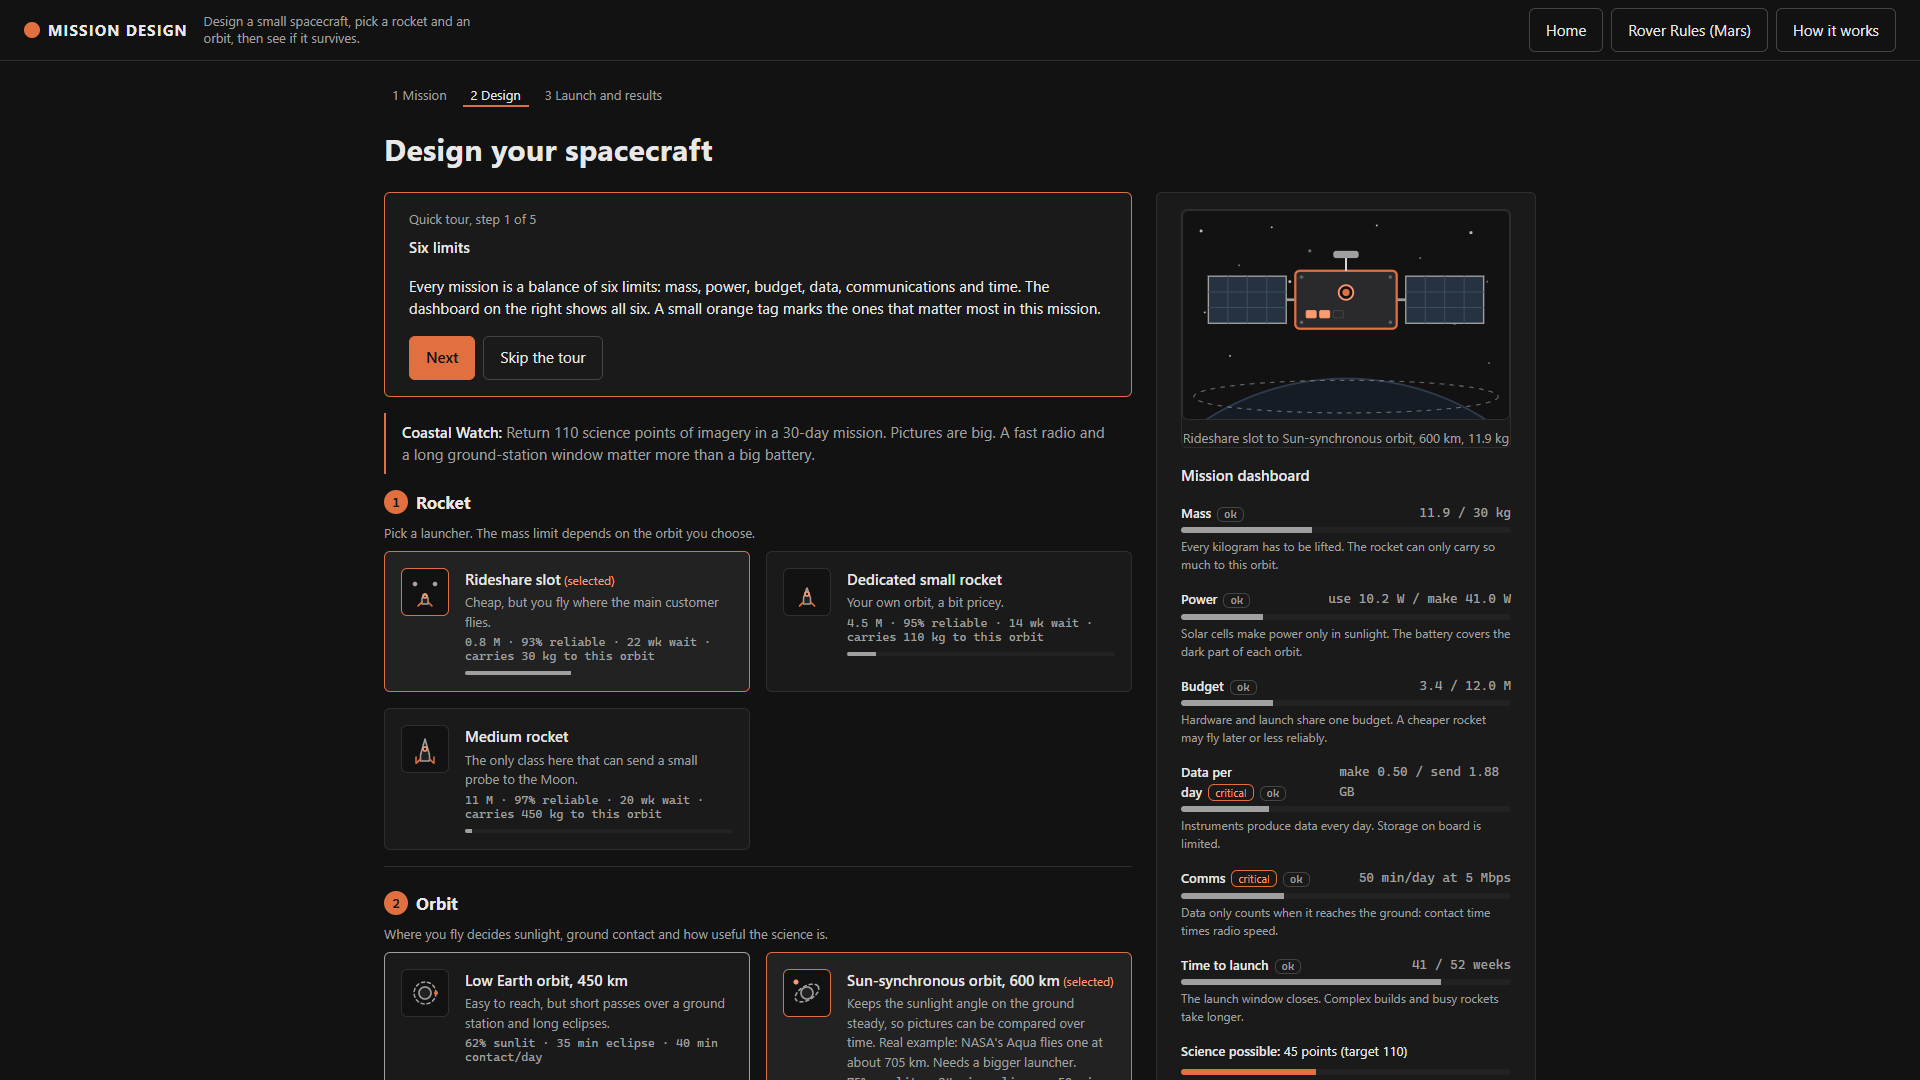
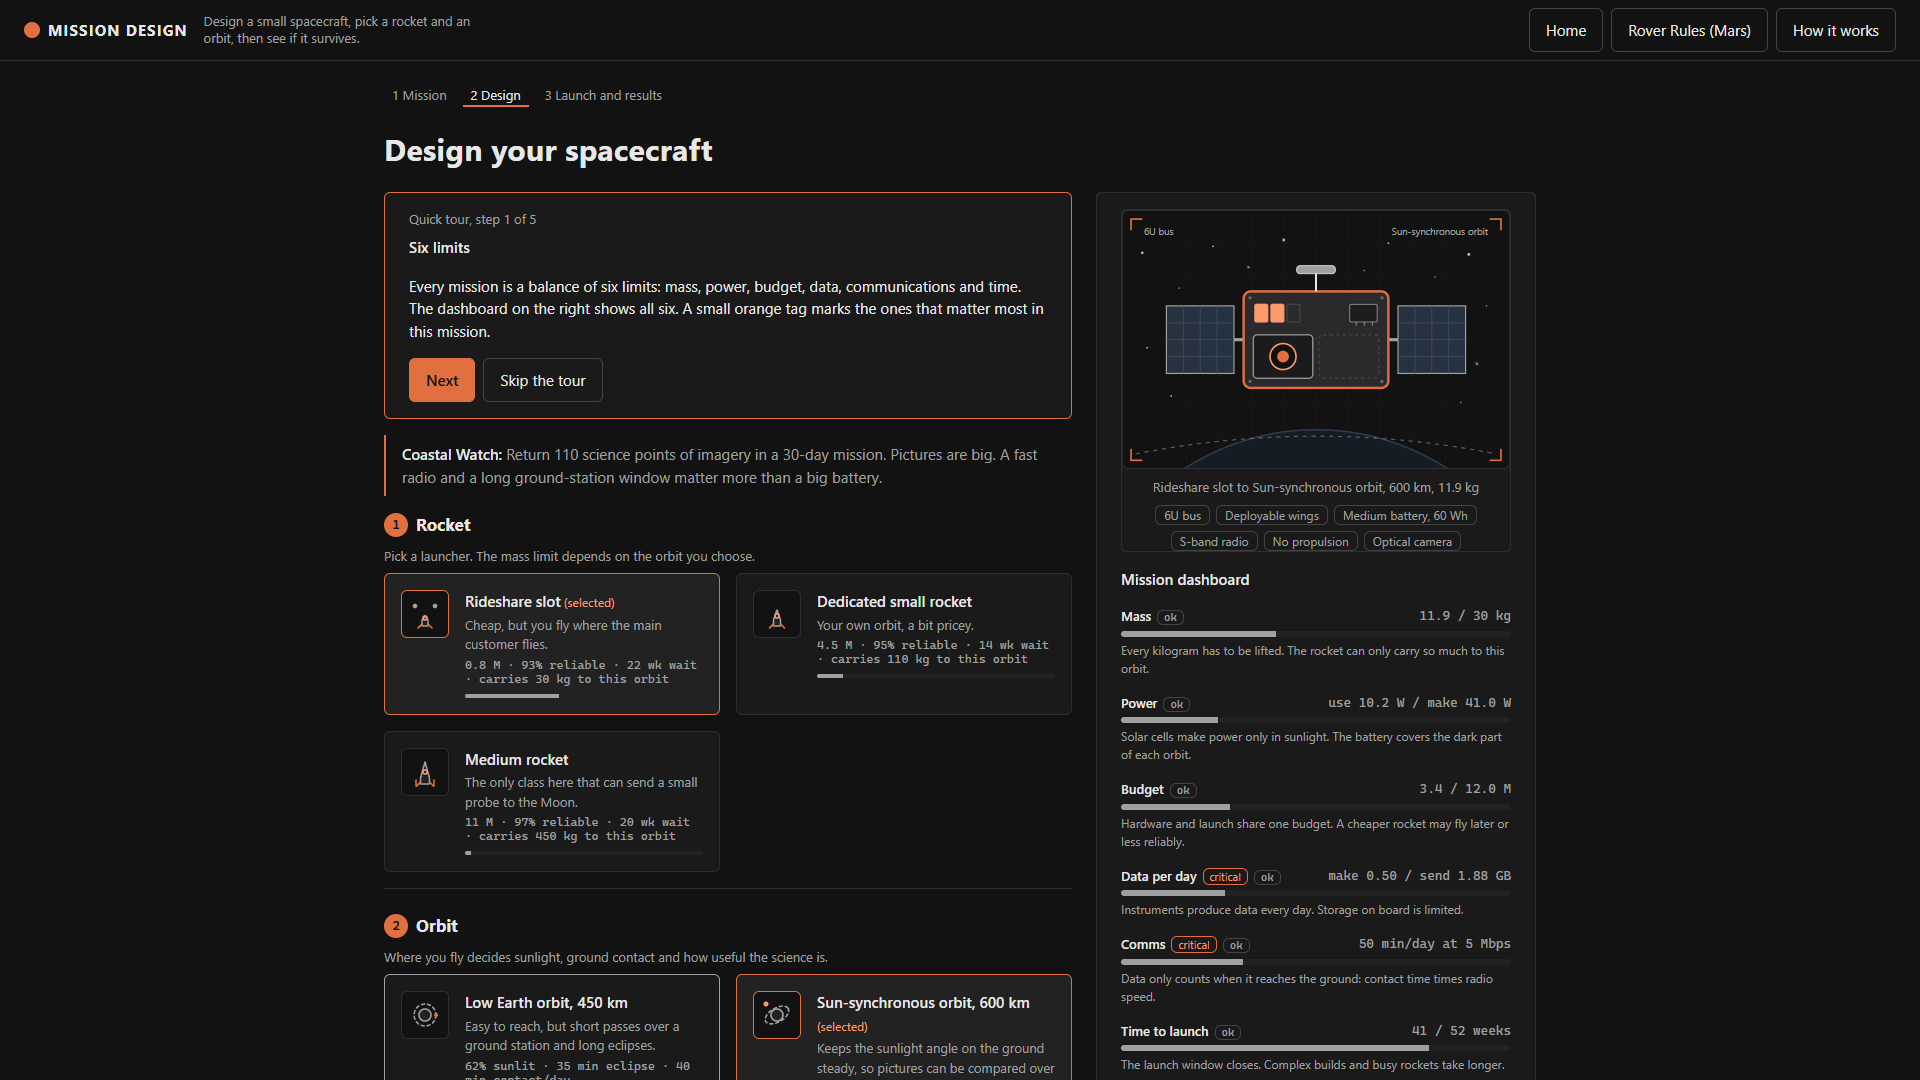
Spacecraft scene rebuilt: hull with battery row, payload bay sockets with clipped instruments, fixed mounts for wings, antenna and thruster; part pop animation; legend

Changed region(s): [[0.1875, 0.2444, 0.7812, 1.0], [0.5938, 0.2139, 0.625, 0.2444]]

diff --git a/rover/src/md_art.js b/rover/src/md_art.js
@@ -4,54 +4,91 @@
   const MR = (globalThis.MR = globalThis.MR || {}), MD = MR.MD;
   const ACC = "#e0703f", ACC2 = "#ff9a6e", INK = "#e8e8e8", DIM = "#a0a0a0", LINE = "#444", PANEL = "#26323f", CELL = "#3d5066", HULL = "#2a2a2c";
 
-  // ---------- spacecraft scene (360 x 230) ----------
-  const STARS = [[20, 22], [62, 60], [98, 18], [140, 44], [214, 16], [262, 52], [318, 24], [336, 78], [24, 112], [300, 124], [52, 160], [338, 168], [118, 78], [248, 98]];
+  // ---------- spacecraft scene (480 x 320) ----------
+  // Layout rules, so nothing overlaps or leaves its place:
+  //  - the hull is a fixed rectangle; the battery row, computer chip and payload bay live INSIDE it
+  //  - the payload bay has one socket per bus slot; every instrument is drawn inside its own socket and clipped to it
+  //  - solar wings, antenna and thruster attach to fixed mount points on the outside of the hull
+  const W = 480, H = 320, CX = 240;
+  const BUS = { u3: { w: 120, h: 120, slots: 1 }, u6: { w: 180, h: 120, slots: 2 }, u12: { w: 240, h: 132, slots: 3 } };
+  const STARS = [[24, 52], [70, 96], [112, 44], [156, 70], [330, 40], [388, 82], [430, 54], [452, 118], [30, 170], [440, 190], [60, 230], [420, 238], [200, 36], [300, 74]];
   function cells(x, y, w, h, cols, rows) {
-    let s = `<rect x="${x}" y="${y}" width="${w}" height="${h}" fill="${PANEL}" stroke="${DIM}" stroke-width="1.5"/>`;
-    for (let i = 1; i < cols; i++) s += `<line x1="${x + (w * i) / cols}" y1="${y}" x2="${x + (w * i) / cols}" y2="${y + h}" stroke="${CELL}"/>`;
-    for (let j = 1; j < rows; j++) s += `<line x1="${x}" y1="${y + (h * j) / rows}" x2="${x + w}" y2="${y + (h * j) / rows}" stroke="${CELL}"/>`;
-    return s;
+    let t = '<rect x="' + x + '" y="' + y + '" width="' + w + '" height="' + h + '" fill="' + PANEL + '" stroke="' + DIM + '" stroke-width="1.5"/>';
+    for (let i = 1; i < cols; i++) t += '<line x1="' + (x + (w * i) / cols) + '" y1="' + y + '" x2="' + (x + (w * i) / cols) + '" y2="' + (y + h) + '" stroke="' + CELL + '"/>';
+    for (let j = 1; j < rows; j++) t += '<line x1="' + x + '" y1="' + (y + (h * j) / rows) + '" x2="' + (x + w) + '" y2="' + (y + (h * j) / rows) + '" stroke="' + CELL + '"/>';
+    return t;
   }
-  // an instrument drawn on the underside of the bus (so it can point at the planet) or on a boom
-  function instrument(id, x, y) {
-    const lens = (r) => `<circle cx="${x}" cy="${y}" r="${r}" fill="#111" stroke="${ACC2}" stroke-width="2"/><circle cx="${x}" cy="${y}" r="${r * 0.5}" fill="${ACC}"/>`;
+  // an instrument drawn inside its socket (sx, sy, sw, sh)
+  function instrument(id, sx, sy, sw, sh) {
+    const mx = sx + sw / 2, my = sy + sh / 2, r = Math.min(sw, sh) / 2 - 8;
+    const lens = (rr, cy) => '<circle cx="' + mx + '" cy="' + cy + '" r="' + rr + '" fill="#111" stroke="' + ACC2 + '" stroke-width="2"/><circle cx="' + mx + '" cy="' + cy + '" r="' + rr * 0.45 + '" fill="' + ACC + '"/>';
     switch (id) {
-      case "camera": return lens(8);
-      case "multi": return lens(11) + `<rect x="${x - 11}" y="${y + 14}" width="22" height="4" fill="${ACC2}"/>`;
-      case "mag": return `<line x1="${x}" y1="${y}" x2="${x + 34}" y2="${y + 22}" stroke="${INK}" stroke-width="2"/><rect x="${x + 30}" y="${y + 18}" width="9" height="9" fill="${ACC}"/>`;
-      case "plasma": return `<line x1="${x - 14}" y1="${y}" x2="${x + 14}" y2="${y + 26}" stroke="${INK}" stroke-width="2"/><line x1="${x + 14}" y1="${y}" x2="${x - 14}" y2="${y + 26}" stroke="${INK}" stroke-width="2"/><circle cx="${x}" cy="${y}" r="4" fill="${ACC2}"/>`;
-      case "spectro": return `<rect x="${x - 7}" y="${y - 5}" width="14" height="16" rx="3" fill="#111" stroke="${ACC2}" stroke-width="2"/><rect x="${x - 4}" y="${y + 11}" width="8" height="5" fill="${ACC}"/>`;
-      case "lcam": return lens(10) + `<path d="M${x - 14} ${y + 12} L${x - 10} ${y + 6} L${x + 10} ${y + 6} L${x + 14} ${y + 12}Z" fill="${HULL}" stroke="${DIM}"/>`;
+      case "camera": return lens(r * 0.85, my);
+      case "multi": return lens(r * 0.62, my - 5) + '<rect x="' + (mx - 18) + '" y="' + (sy + sh - 13) + '" width="10" height="5" fill="' + ACC + '"/><rect x="' + (mx - 5) + '" y="' + (sy + sh - 13) + '" width="10" height="5" fill="' + ACC2 + '"/><rect x="' + (mx + 8) + '" y="' + (sy + sh - 13) + '" width="10" height="5" fill="' + DIM + '"/>';
+      case "mag": return '<rect x="' + (sx + 10) + '" y="' + (sy + sh - 26) + '" width="20" height="16" rx="2" fill="#111" stroke="' + ACC2 + '" stroke-width="2"/><line x1="' + (sx + 30) + '" y1="' + (sy + sh - 22) + '" x2="' + (sx + sw - 14) + '" y2="' + (sy + 14) + '" stroke="' + INK + '" stroke-width="2"/><rect x="' + (sx + sw - 19) + '" y="' + (sy + 9) + '" width="9" height="9" fill="' + ACC + '"/>';
+      case "plasma": return '<line x1="' + (sx + 12) + '" y1="' + (sy + 12) + '" x2="' + (sx + sw - 12) + '" y2="' + (sy + sh - 12) + '" stroke="' + INK + '" stroke-width="2"/><line x1="' + (sx + sw - 12) + '" y1="' + (sy + 12) + '" x2="' + (sx + 12) + '" y2="' + (sy + sh - 12) + '" stroke="' + INK + '" stroke-width="2"/><circle cx="' + mx + '" cy="' + my + '" r="5" fill="' + ACC + '"/>';
+      case "spectro": return '<rect x="' + (mx - 12) + '" y="' + (sy + 8) + '" width="24" height="' + (sh - 24) + '" rx="5" fill="#111" stroke="' + ACC2 + '" stroke-width="2"/><rect x="' + (mx - 7) + '" y="' + (sy + sh - 16) + '" width="14" height="7" fill="' + ACC + '"/>';
+      case "lcam": return lens(r * 0.7, my - 2) + '<path d="M' + (mx - 16) + ' ' + (sy + sh - 8) + ' L' + (mx - 11) + ' ' + (sy + sh - 15) + ' L' + (mx + 11) + ' ' + (sy + sh - 15) + ' L' + (mx + 16) + ' ' + (sy + sh - 8) + 'Z" fill="' + HULL + '" stroke="' + DIM + '"/>';
       default: return "";
     }
   }
+  let lastDesign = null;
   MR.mdArt = {};
   MR.mdArt.craft = function (d) {
-    const sz = { u3: [64, 64], u6: [112, 64], u12: [112, 112] }[d.bus], bw = sz[0], bh = sz[1], cx = 180, cy = 98;
-    const x0 = cx - bw / 2, y0 = cy - bh / 2, g = [];
-    // sky: stars, the planet's curve and the orbit line
-    STARS.forEach(([x, y], i) => g.push(`<circle cx="${x}" cy="${y}" r="${i % 3 === 0 ? 1.6 : 1}" fill="${i % 2 ? "#777" : "#bbb"}"/>`));
-    g.push(`<circle cx="180" cy="470" r="285" fill="#161c24" stroke="#2e3a4d" stroke-width="2"/>`);
-    g.push(`<ellipse cx="180" cy="205" rx="168" ry="18" fill="none" stroke="${DIM}" stroke-width="1" stroke-dasharray="5 6" opacity=".7"/>`);
-    // solar panels
-    if (d.solar === "wings") for (const sgn of [-1, 1]) { const w = 86, x = sgn < 0 ? x0 - 10 - w : x0 + bw + 10; g.push(`<line x1="${sgn < 0 ? x0 : x0 + bw}" y1="${cy}" x2="${sgn < 0 ? x0 - 10 : x0 + bw + 10}" y2="${cy}" stroke="${DIM}" stroke-width="3"/>`, cells(x, cy - 26, w, 52, 4, 3)); }
-    else g.push(cells(x0 + 6, y0 - 7, bw - 12, 7, 5, 1));
+    const B = BUS[d.bus], bw = B.w, bh = B.h, x0 = CX - bw / 2, y0 = 160 - bh / 2, x1 = x0 + bw, y1 = y0 + bh, cy = 160;
+    const changed = (k) => (lastDesign && JSON.stringify(lastDesign[k]) !== JSON.stringify(d[k]) ? " new" : "");
+    const part = (name, key, inner) => '<g class="part' + changed(key) + '" data-part="' + name + '">' + inner + "</g>";
+    const g = [];
+    // backdrop: faint grid, stars, planet, orbit line, corner brackets
+    for (let x = 40; x < W; x += 40) g.push('<line x1="' + x + '" y1="0" x2="' + x + '" y2="' + H + '" stroke="#17171a"/>');
+    for (let y = 40; y < H; y += 40) g.push('<line x1="0" y1="' + y + '" x2="' + W + '" y2="' + y + '" stroke="#17171a"/>');
+    STARS.forEach(([x, y], i) => g.push('<circle cx="' + x + '" cy="' + y + '" r="' + (i % 3 === 0 ? 1.6 : 1) + '" fill="' + (i % 2 ? "#777" : "#bbb") + '"/>'));
+    g.push('<circle cx="240" cy="572" r="300" fill="#161c24" stroke="#2e3a4d" stroke-width="2"/>');
+    g.push('<path d="M16 302 Q240 258 464 302" fill="none" stroke="' + DIM + '" stroke-dasharray="5 6" opacity=".7"/>');
+    [[10, 10, 1, 1], [W - 10, 10, -1, 1], [10, H - 10, 1, -1], [W - 10, H - 10, -1, -1]].forEach(([x, y, sx, sy]) => g.push('<path d="M' + x + " " + (y + 14 * sy) + " V" + y + " H" + (x + 14 * sx) + '" fill="none" stroke="' + ACC + '" stroke-width="2"/>'));
+    g.push('<text x="26" y="30" fill="' + DIM + '" font-size="12">' + MD.BUSES[d.bus].name + "</text>");
+    g.push('<text x="' + (W - 26) + '" y="30" fill="' + DIM + '" font-size="12" text-anchor="end">' + MD.ORBITS[d.orbit].name.split(",")[0] + "</text>");
+
+    // solar: wings on fixed arms at the hull sides, or a cell band across the top of the hull
+    if (d.solar === "wings") {
+      let w = "";
+      for (const sgn of [-1, 1]) { const ax = sgn < 0 ? x0 : x1, wx = sgn < 0 ? x0 - 12 - 84 : x1 + 12; w += '<line x1="' + ax + '" y1="' + cy + '" x2="' + (sgn < 0 ? x0 - 12 : x1 + 12) + '" y2="' + cy + '" stroke="' + DIM + '" stroke-width="4"/>' + cells(wx, cy - 42, 84, 84, 4, 4); }
+      g.push(part("solar", "solar", w));
+    }
     // hull
-    g.push(`<rect x="${x0}" y="${y0}" width="${bw}" height="${bh}" rx="5" fill="${HULL}" stroke="${ACC}" stroke-width="2.5"/>`);
-    [[x0 + 7, y0 + 7], [x0 + bw - 7, y0 + 7], [x0 + 7, y0 + bh - 7], [x0 + bw - 7, y0 + bh - 7]].forEach(([x, y]) => g.push(`<circle cx="${x}" cy="${y}" r="1.8" fill="#666"/>`));
-    // battery cells inside the hull
+    g.push(part("bus", "bus", '<rect x="' + x0 + '" y="' + y0 + '" width="' + bw + '" height="' + bh + '" rx="9" fill="' + HULL + '" stroke="' + ACC + '" stroke-width="3"/>' +
+      [[x0 + 8, y0 + 8], [x1 - 8, y0 + 8], [x0 + 8, y1 - 8], [x1 - 8, y1 - 8]].map(([x, y]) => '<circle cx="' + x + '" cy="' + y + '" r="2" fill="#666"/>').join("")));
+    if (d.solar === "body") g.push(part("solar", "solar", cells(x0 + 14, y0 + 4, bw - 28, 7, 6, 1)));
+    // battery cells (left) and computer chip (right), inside the hull
     const n = { s: 1, m: 2, l: 3 }[d.battery];
-    for (let i = 0; i < 3; i++) g.push(`<rect x="${x0 + 12 + i * 15}" y="${y0 + bh - 20}" width="11" height="8" rx="1.5" fill="${i < n ? ACC2 : "none"}" stroke="${i < n ? ACC2 : LINE}"/>`);
-    // instruments: lenses sit in a row on the hull, booms hang below
-    d.payloads.forEach((p, i) => { const ix = cx + (i - (d.payloads.length - 1) / 2) * 34; const onBoom = p === "mag" || p === "plasma"; g.push(instrument(p, ix, onBoom ? y0 + bh : y0 + 24)); });
-    // antenna
-    if (d.comms === "uhf") g.push(`<line x1="${cx}" y1="${y0}" x2="${cx}" y2="${y0 - 26}" stroke="${INK}" stroke-width="2"/><circle cx="${cx}" cy="${y0 - 26}" r="3" fill="${INK}"/>`);
-    if (d.comms === "sband") g.push(`<line x1="${cx}" y1="${y0}" x2="${cx}" y2="${y0 - 14}" stroke="${INK}" stroke-width="2"/><rect x="${cx - 14}" y="${y0 - 22}" width="28" height="8" rx="3" fill="${DIM}"/>`);
-    if (d.comms === "xband") g.push(`<line x1="${cx}" y1="${y0}" x2="${cx}" y2="${y0 - 14}" stroke="${INK}" stroke-width="2"/><path d="M${cx - 24} ${y0 - 30} Q${cx} ${y0 - 8} ${cx + 24} ${y0 - 30}Z" fill="${DIM}" stroke="${INK}"/><line x1="${cx}" y1="${y0 - 20}" x2="${cx}" y2="${y0 - 40}" stroke="${INK}"/><circle cx="${cx}" cy="${y0 - 40}" r="2.5" fill="${ACC2}"/>`);
-    // thruster
-    if (d.prop === "cold") g.push(`<rect x="${x0 - 7}" y="${y0 + bh - 14}" width="7" height="6" fill="${DIM}"/><rect x="${x0 + bw}" y="${y0 + bh - 14}" width="7" height="6" fill="${DIM}"/><circle cx="${x0 - 12}" cy="${y0 + bh - 11}" r="2" fill="${INK}"/><circle cx="${x0 + bw + 12}" cy="${y0 + bh - 11}" r="2" fill="${INK}"/>`);
-    if (d.prop === "electric") g.push(`<path d="M${cx - 9} ${y0 + bh} L${cx + 9} ${y0 + bh} L${cx + 5} ${y0 + bh + 9} L${cx - 5} ${y0 + bh + 9}Z" fill="${DIM}"/><ellipse cx="${cx}" cy="${y0 + bh + 17}" rx="4" ry="9" fill="${ACC}" opacity=".9"/>`);
-    return `<svg viewBox="0 0 360 230" class="craft" role="img" aria-label="Your spacecraft: ${MD.BUSES[d.bus].name}, ${MD.SOLAR[d.solar].name}, ${MD.BATTERY[d.battery].name}, ${MD.COMMS[d.comms].name}, ${d.payloads.length} instrument(s)">${g.join("")}</svg>`;
+    let bat = "";
+    for (let i = 0; i < 3; i++) bat += '<rect x="' + (x0 + 14 + i * 20) + '" y="' + (y0 + 16) + '" width="16" height="22" rx="2" fill="' + (i < n ? ACC2 : "none") + '" stroke="' + (i < n ? ACC2 : LINE) + '" stroke-width="1.5"/>';
+    g.push(part("battery", "battery", bat));
+    g.push('<rect x="' + (x1 - 14 - 34) + '" y="' + (y0 + 16) + '" width="34" height="22" rx="2" fill="#1c1c1e" stroke="' + DIM + '"/>' + [0, 1, 2].map((i) => '<line x1="' + (x1 - 14 - 26 + i * 10) + '" y1="' + (y0 + 38) + '" x2="' + (x1 - 14 - 26 + i * 10) + '" y2="' + (y0 + 43) + '" stroke="' + DIM + '"/>').join(""));
+    // payload bay: one socket per slot, instruments clipped to their socket
+    const bayX = x0 + 12, bayY = y0 + 54, bayW = bw - 24, bayH = bh - 66, gap = 8, sw = (bayW - gap * (B.slots - 1)) / B.slots;
+    let bay = "", defs = "";
+    for (let i = 0; i < B.slots; i++) {
+      const sx = bayX + i * (sw + gap), p = d.payloads[i];
+      defs += '<clipPath id="slot' + i + '"><rect x="' + sx + '" y="' + bayY + '" width="' + sw + '" height="' + bayH + '" rx="5"/></clipPath>';
+      bay += '<rect x="' + sx + '" y="' + bayY + '" width="' + sw + '" height="' + bayH + '" rx="5" fill="' + (p ? "#1b1b1d" : "none") + '" stroke="' + (p ? DIM : LINE) + '" stroke-width="1.5"' + (p ? "" : ' stroke-dasharray="4 4"') + "/>";
+      if (p) bay += '<g clip-path="url(#slot' + i + ')">' + instrument(p, sx, bayY, sw, bayH) + "</g>";
+    }
+    g.push("<defs>" + defs + "</defs>" + part("payloads", "payloads", bay));
+    if (d.payloads.length > B.slots) g.push('<text x="' + (x1 - 12) + '" y="' + (y0 + 51) + '" fill="' + ACC2 + '" font-size="11" text-anchor="end">+' + (d.payloads.length - B.slots) + " no room</text>");
+    // antenna on the top mount
+    let ant = "";
+    if (d.comms === "uhf") ant = '<line x1="' + CX + '" y1="' + y0 + '" x2="' + CX + '" y2="' + (y0 - 46) + '" stroke="' + INK + '" stroke-width="2.5"/><circle cx="' + CX + '" cy="' + (y0 - 48) + '" r="3.5" fill="' + INK + '"/>';
+    if (d.comms === "sband") ant = '<line x1="' + CX + '" y1="' + y0 + '" x2="' + CX + '" y2="' + (y0 - 22) + '" stroke="' + INK + '" stroke-width="2.5"/><rect x="' + (CX - 24) + '" y="' + (y0 - 32) + '" width="48" height="10" rx="4" fill="' + DIM + '" stroke="' + INK + '"/>';
+    if (d.comms === "xband") ant = '<line x1="' + CX + '" y1="' + y0 + '" x2="' + CX + '" y2="' + (y0 - 24) + '" stroke="' + INK + '" stroke-width="2.5"/><path d="M' + (CX - 32) + " " + (y0 - 44) + " Q" + CX + " " + (y0 - 14) + " " + (CX + 32) + " " + (y0 - 44) + 'Z" fill="' + DIM + '" stroke="' + INK + '"/><line x1="' + CX + '" y1="' + (y0 - 26) + '" x2="' + CX + '" y2="' + (y0 - 56) + '" stroke="' + INK + '"/><circle cx="' + CX + '" cy="' + (y0 - 58) + '" r="3" fill="' + ACC2 + '"/>';
+    g.push(part("comms", "comms", ant));
+    // thruster on the bottom mount
+    let th = "";
+    if (d.prop === "cold") for (const x of [x0 + bw * 0.28, x0 + bw * 0.72]) th += '<path d="M' + (x - 9) + " " + y1 + " L" + (x + 9) + " " + y1 + " L" + (x + 6) + " " + (y1 + 14) + " L" + (x - 6) + " " + (y1 + 14) + 'Z" fill="' + DIM + '" stroke="' + INK + '"/><circle cx="' + (x - 3) + '" cy="' + (y1 + 22) + '" r="2" fill="' + INK + '"/><circle cx="' + (x + 4) + '" cy="' + (y1 + 27) + '" r="1.5" fill="' + INK + '"/>';
+    if (d.prop === "electric") th = '<path d="M' + (CX - 15) + " " + y1 + " L" + (CX + 15) + " " + y1 + " L" + (CX + 9) + " " + (y1 + 18) + " L" + (CX - 9) + " " + (y1 + 18) + 'Z" fill="' + DIM + '" stroke="' + INK + '"/><ellipse cx="' + CX + '" cy="' + (y1 + 32) + '" rx="6" ry="13" fill="' + ACC + '"/><ellipse cx="' + CX + '" cy="' + (y1 + 29) + '" rx="3" ry="8" fill="' + ACC2 + '"/>';
+    g.push(part("prop", "prop", th));
+    lastDesign = JSON.parse(JSON.stringify(d));
+    return '<svg viewBox="0 0 ' + W + " " + H + '" class="craft" font-family="system-ui,sans-serif" role="img" aria-label="Your spacecraft: ' + MD.BUSES[d.bus].name + ", " + MD.SOLAR[d.solar].name + ", " + MD.BATTERY[d.battery].name + ", " + MD.COMMS[d.comms].name + ", " + d.payloads.length + ' instrument(s)">' + g.join("") + "</svg>";
   };
 
   // ---------- option icons (32 x 32) ----------

diff --git a/rover/md.css b/rover/md.css
@@ -69,7 +69,13 @@ figure.stage figcaption { margin-top:var(--s1); text-align:center; }
 .panel-col .grp > h3 { display:flex; align-items:center; gap:var(--s1); font-size:17px; }
 .panel-col .grp > h3::before { counter-increment:grp; content:counter(grp); display:inline-grid; place-content:center; width:24px; height:24px; border-radius:50%; background:var(--accent); color:var(--on-accent); font:600 13px var(--mono); }
 .panel-col .grp { padding-bottom:var(--s2); border-bottom:1px solid var(--line); }
-@media (min-width:901px) { .md-grid { grid-template-columns:minmax(0,1fr) 380px; } }
+@media (min-width:901px) { .md-grid { grid-template-columns:minmax(0,1fr) 440px; } }
 h1:first-of-type { letter-spacing:.01em; }
 @media (prefers-reduced-motion:reduce) { .pick { transition:none; } }
 a.btn { text-decoration:none; display:inline-flex; align-items:center; }
+
+ul.legend { list-style:none; margin:var(--s1) 0 0; padding:0; display:flex; flex-wrap:wrap; gap:6px; justify-content:center; }
+ul.legend li { font-size:12px; color:var(--dim); border:1px solid var(--line2); border-radius:var(--r); padding:0 8px; }
+svg.craft .part.new { animation:partpop 200ms ease-out both; transform-box:fill-box; transform-origin:center; }
+@keyframes partpop { from { opacity:.15; transform:scale(.94); } to { opacity:1; transform:none; } }
+@media (prefers-reduced-motion:reduce) { svg.craft .part.new { animation:none; } }

diff --git a/rover/src/md_ui.js b/rover/src/md_ui.js
@@ -133,6 +133,9 @@
     const cap = document.createElement("figcaption"); cap.className = "small dim";
     cap.textContent = MD.LAUNCHERS[d.launcher].name + " to " + MD.ORBITS[d.orbit].name + (A ? ", " + A.mass.used.toFixed(1) + " kg" : "");
     wrap.append(cap);
+    const lg = document.createElement("ul"); lg.className = "legend";
+    [MD.BUSES[d.bus].name, MD.SOLAR[d.solar].name, MD.BATTERY[d.battery].name, MD.COMMS[d.comms].name, MD.PROP[d.prop].name].concat(d.payloads.map((p) => MD.PAYLOADS[p].name)).forEach((t) => { const li = document.createElement("li"); li.textContent = t; lg.append(li); });
+    wrap.append(lg);
     return wrap;
   }
 
